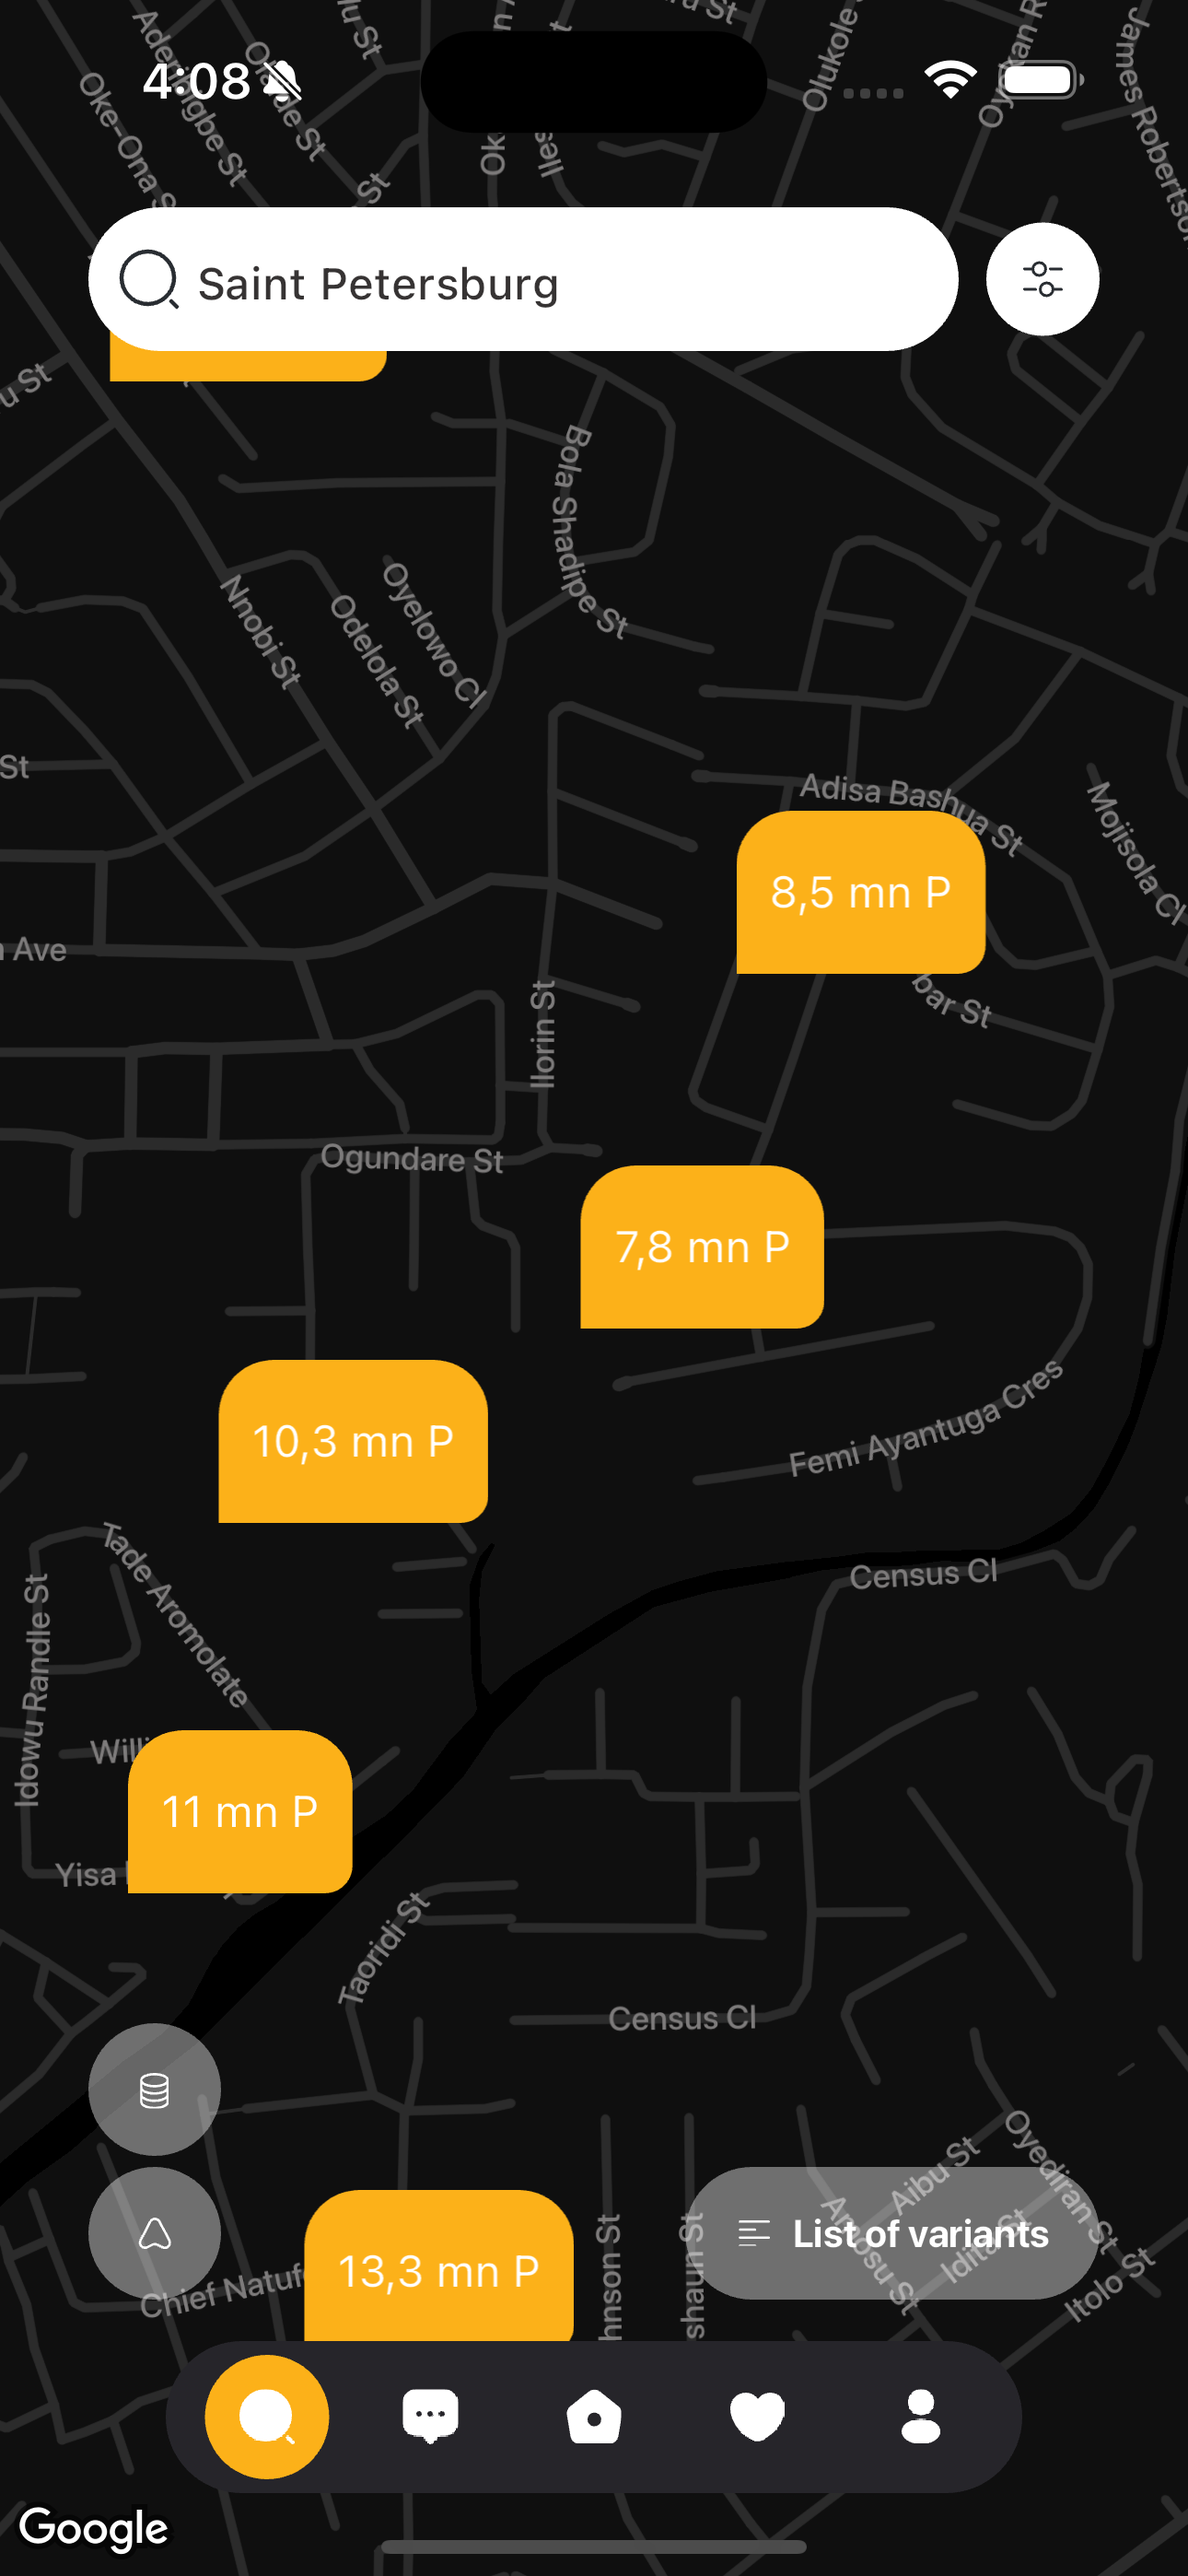
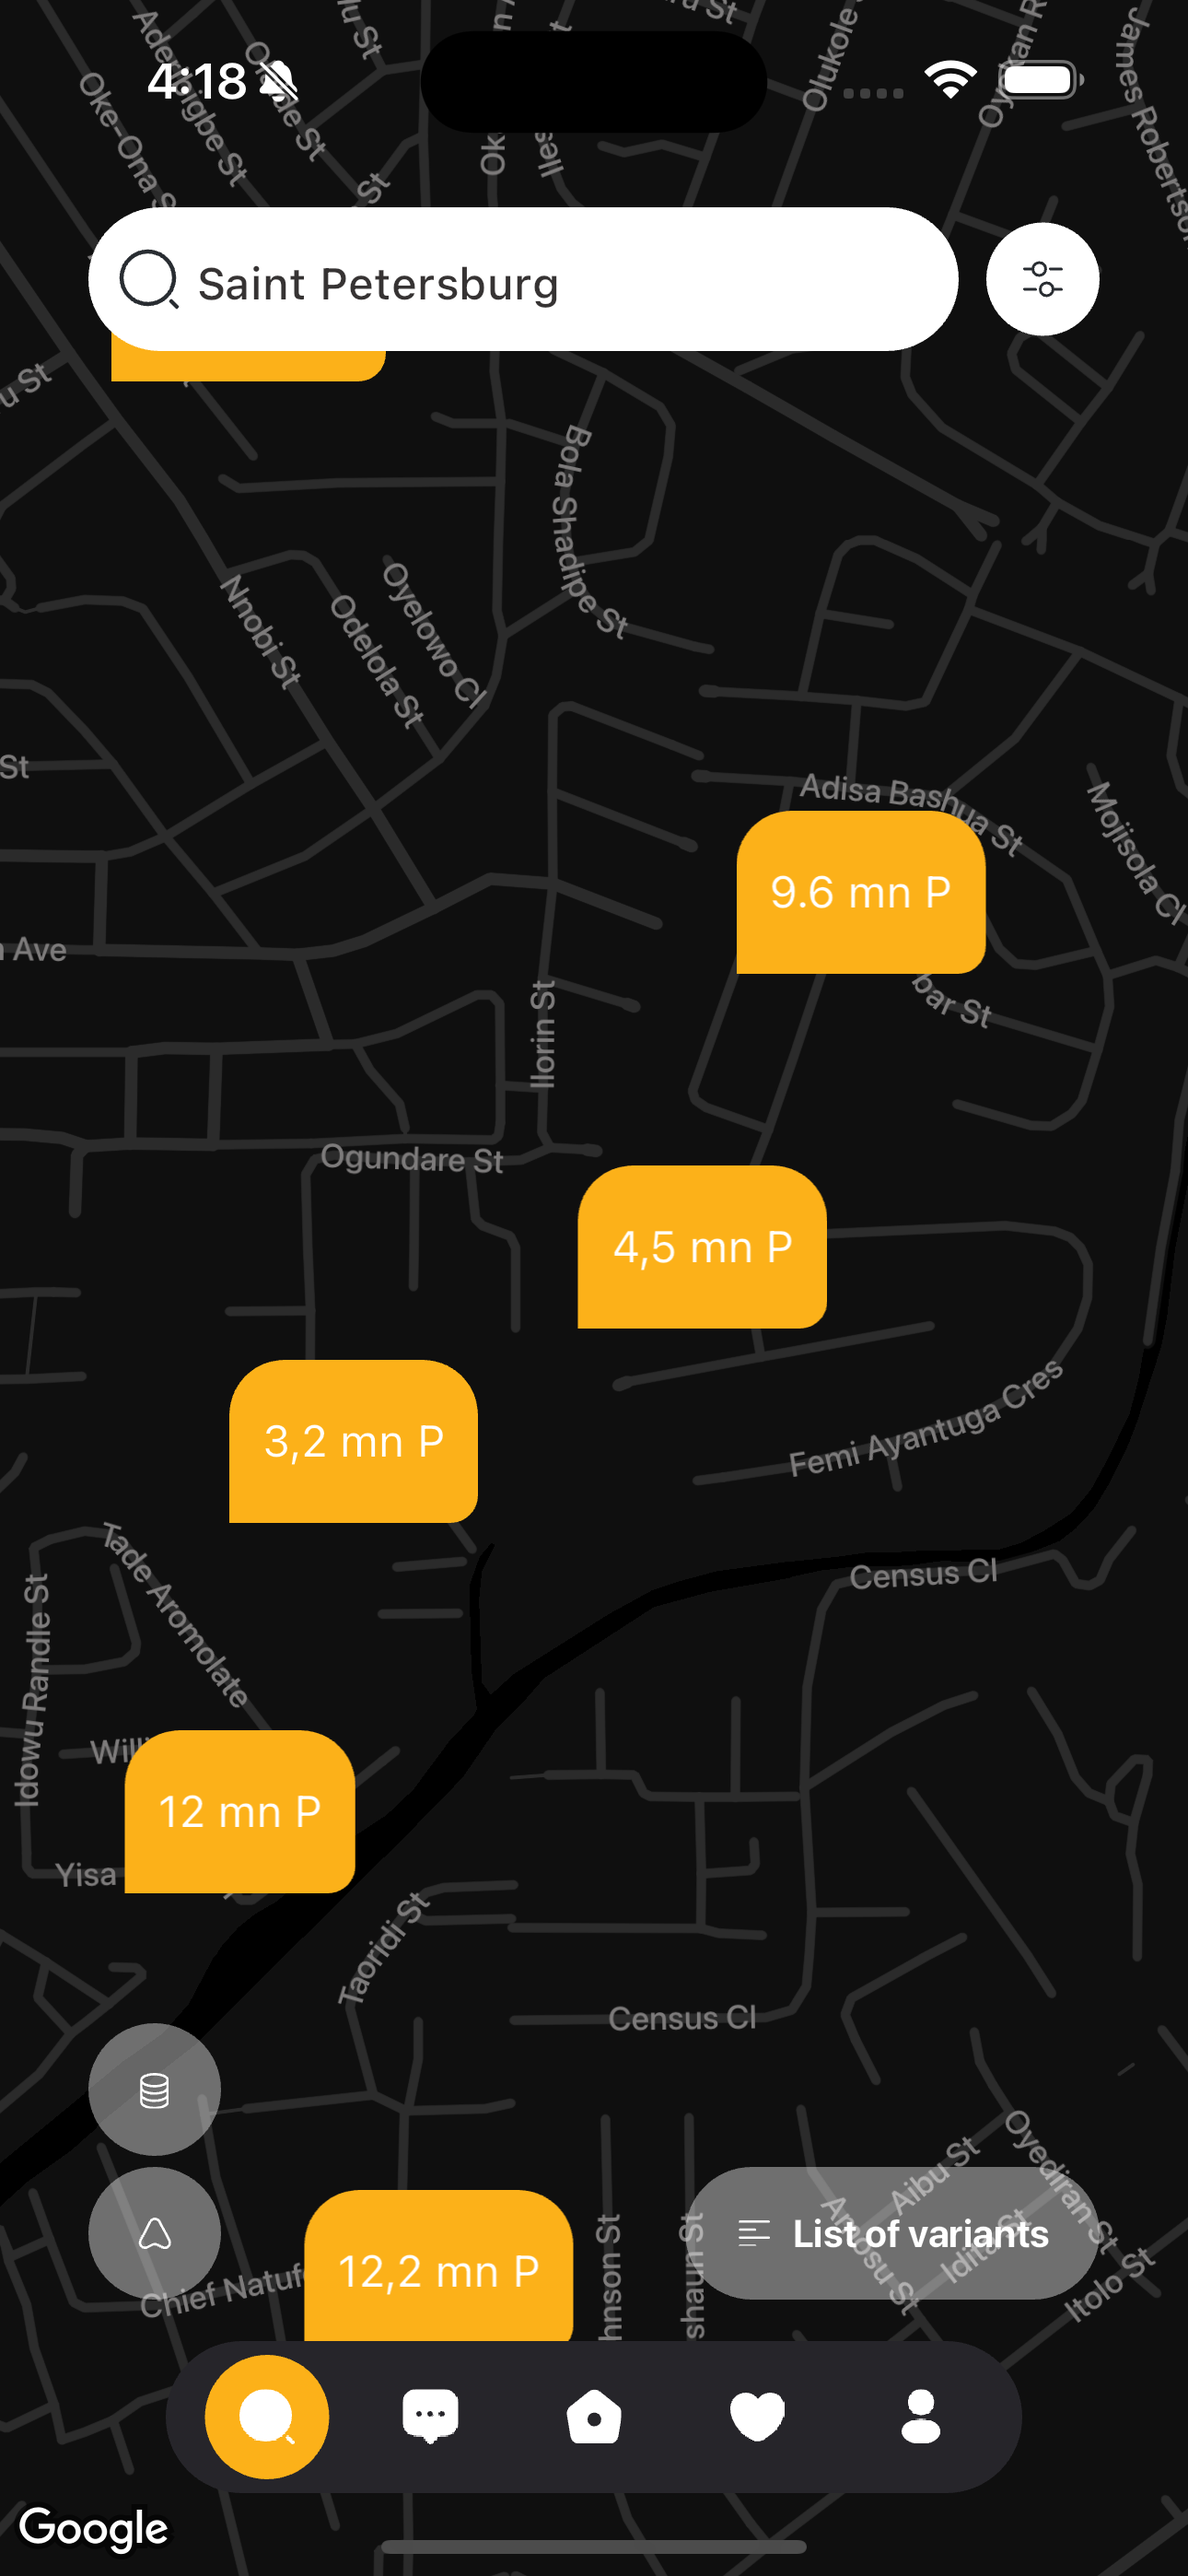
clean up

diff --git a/lib/src/features/search/search.dart b/lib/src/features/search/search.dart
@@ -40,32 +40,32 @@ class _SearchState extends State<Search> {
       Marker(
         markerId: const MarkerId('marker_1'),
         position: const LatLng(6.493318598226593, 3.3474268249107566),
-        icon: await const CustomMarker(title: '10,3 mn P').toBitmapDescriptor(),
+        icon: await const CustomMarker(title: '3,2 mn P').toBitmapDescriptor(),
       ),
       Marker(
         markerId: const MarkerId('marker_2'),
         position: const LatLng(6.490461411231873, 3.3465462182232204),
-        icon: await const CustomMarker(title: '11 mn P').toBitmapDescriptor(),
+        icon: await const CustomMarker(title: '12 mn P').toBitmapDescriptor(),
       ),
       Marker(
         markerId: const MarkerId('marker_3'),
         position: const LatLng(6.494818140335928, 3.350137870510183),
-        icon: await const CustomMarker(title: '7,8 mn P').toBitmapDescriptor(),
+        icon: await const CustomMarker(title: '4,5 mn P').toBitmapDescriptor(),
       ),
       Marker(
         markerId: const MarkerId('marker_4'),
         position: const LatLng(6.497552979246254, 3.35136730450701),
-        icon: await const CustomMarker(title: '8,5 mn P').toBitmapDescriptor(),
+        icon: await const CustomMarker(title: '9.6 mn P').toBitmapDescriptor(),
       ),
       Marker(
         markerId: const MarkerId('marker_5'),
         position: const LatLng(6.4869146158885895, 3.34809470172761),
-        icon: await const CustomMarker(title: '13,3 mn P').toBitmapDescriptor(),
+        icon: await const CustomMarker(title: '12,2 mn P').toBitmapDescriptor(),
       ),
       Marker(
         markerId: const MarkerId('marker_6'),
         position: const LatLng(6.502124463963902, 3.3466128831291804),
-        icon: await const CustomMarker(title: '6,95 mn P').toBitmapDescriptor(),
+        icon: await const CustomMarker(title: '5,87 mn P').toBitmapDescriptor(),
       )
     });
   }

diff --git a/lib/src/features/tab_view/tab_view.dart b/lib/src/features/tab_view/tab_view.dart
@@ -16,7 +16,7 @@ class _TabViewState extends State<TabView> with SingleTickerProviderStateMixin {
   late AnimationController _controller;
   late Animation<Offset> _slideAnimation;
 
-  int _currentIndex = 0;
+  int _currentIndex = 2;
 
   final List<Widget> _screens = const [
     Search(),
